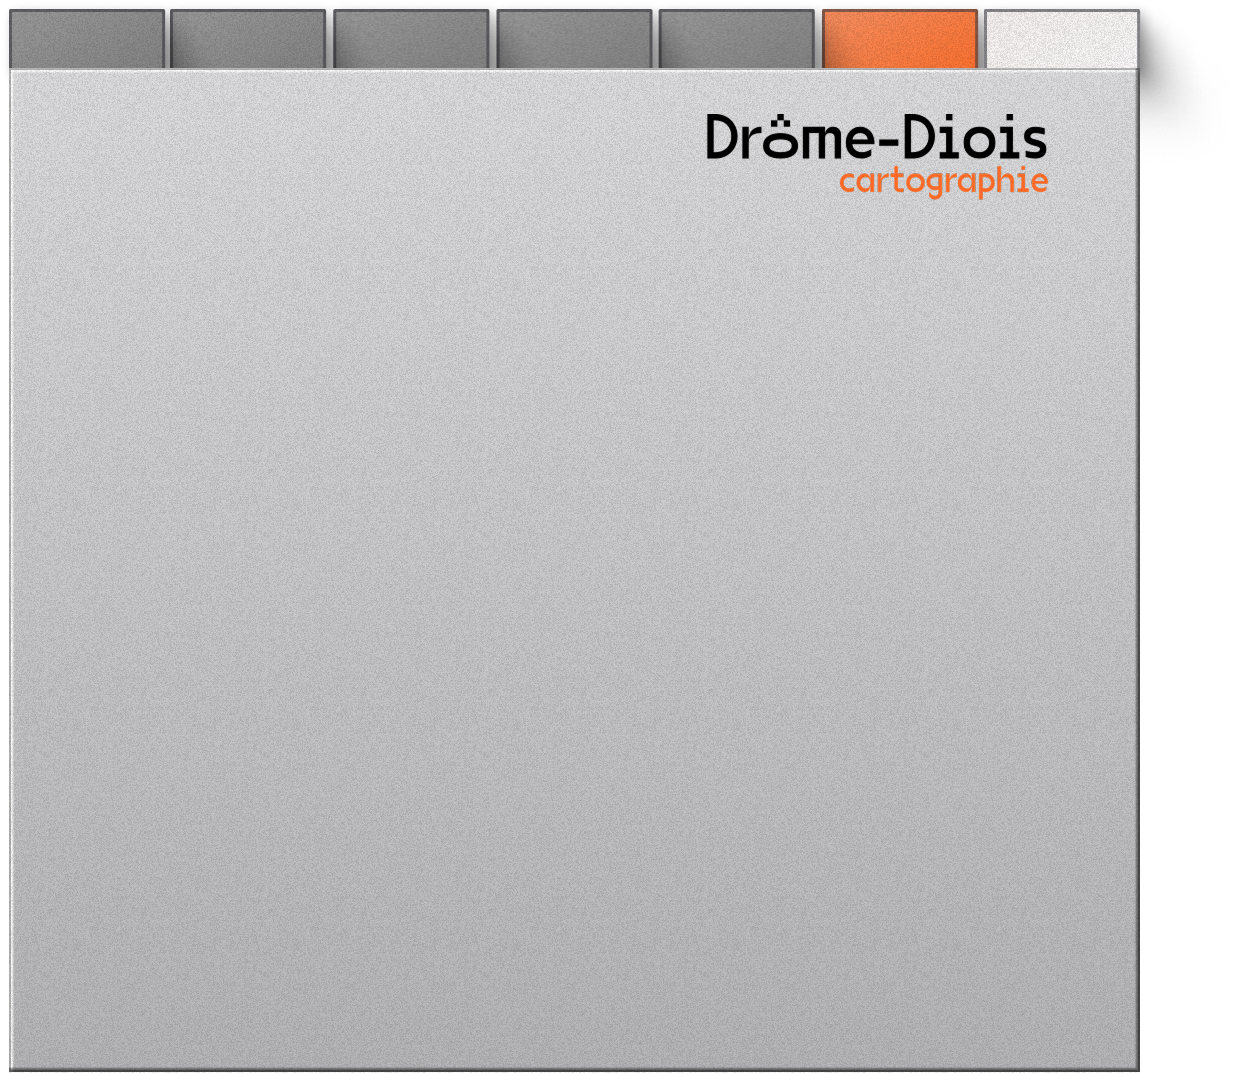
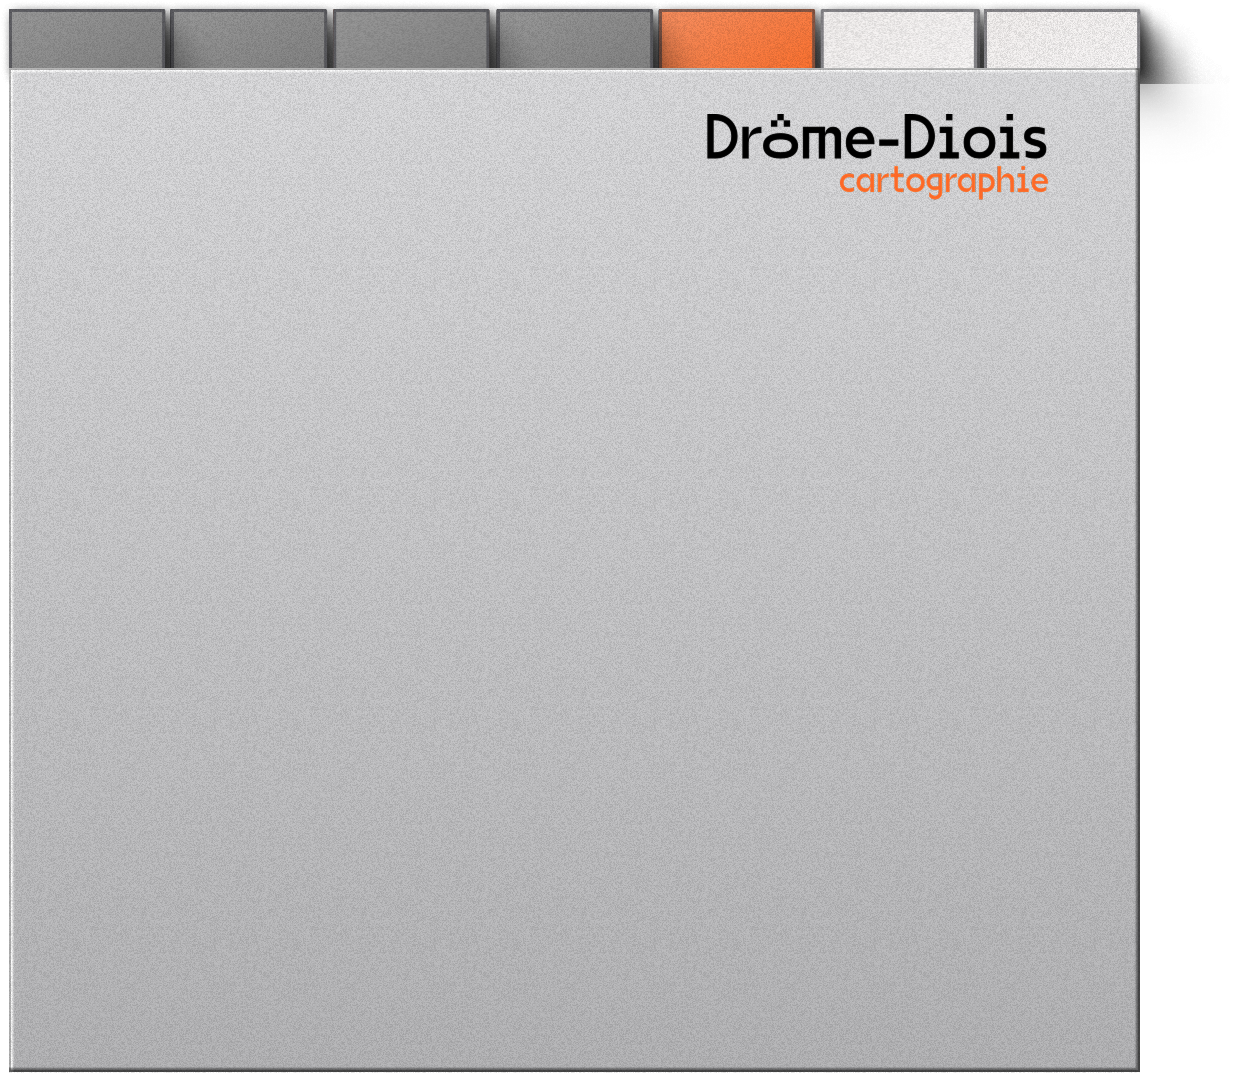
ux(onglets): swap Comm(5e)/Amis(6e) — échange des bandes d'onglets, orange réaligné
- TABS/TABN: commerce en index4, patri(Amis) en index5. Amis = slot blanc (voulu).
- Plaques comm/patri: bandes d'onglets échangées (top 84px) → l'orange actif tombe sur
  le bon slot (Comm@4, Amis@5). Corps inchangés.
- SW v24 to v25.

diff --git a/index.html b/index.html
@@ -2338,7 +2338,7 @@ function loadPoiIcons() {
 }
 
 // ── PANNEAU v4 (plaque sprite) — remplace l'ancien rendu HTML ───────────────
-const V4 = { TABS:['fond','nature','faune','activites','patri','commerce','experimental'],
+const V4 = { TABS:['fond','nature','faune','activites','commerce','patri','experimental'],
   TABX:[14,178,342,506,670,825,989], fkind:'mammiferes', P:null };
 // icônes transport (Tabler, fournies) — c = couleur (encodée %23…)
 const ICON4={
@@ -2900,7 +2900,7 @@ const PANELV4={
 function drawPanel(){ const plate=document.getElementById('plate'); if(!plate)return; V4.P=plate; plate.innerHTML='';
   plate.style.backgroundImage=`url('assets/ui/panel-${v4Plate(state.activeTab)}-v4-plate.png')`;
   // onglets = bakés dans la plaque (état actif par plaque) + noms + zones cliquables
-  const TABN=['Fond','Nature','Faune','Activ','Amis','Comm','Expe'];
+  const TABN=['Fond','Nature','Faune','Activ','Comm','Amis','Expe'];
   // onglets = highlight BAKÉ dans la plaque (design keycap) ; labels + zones cliquables en overlay.
   // Plaques activ/patri = corps réutilisé + bande d'onglets de la bonne plaque (bon onglet orange).
   V4.TABS.forEach((id,i)=>{ const act=id===state.activeTab;

diff --git a/sw.js b/sw.js
@@ -3,7 +3,7 @@
 // navigation, réutilisables hors-ligne pendant 30 jours.
 // Actif uniquement en https (GitHub Pages) ou localhost — pas en file://.
 
-const VERSION = 'v24';
+const VERSION = 'v25';
 const SHELL = 'drome-shell-' + VERSION;
 const RUNTIME = 'drome-runtime-' + VERSION;
 const MAX_AGE = 30 * 24 * 60 * 60 * 1000; // 30 jours